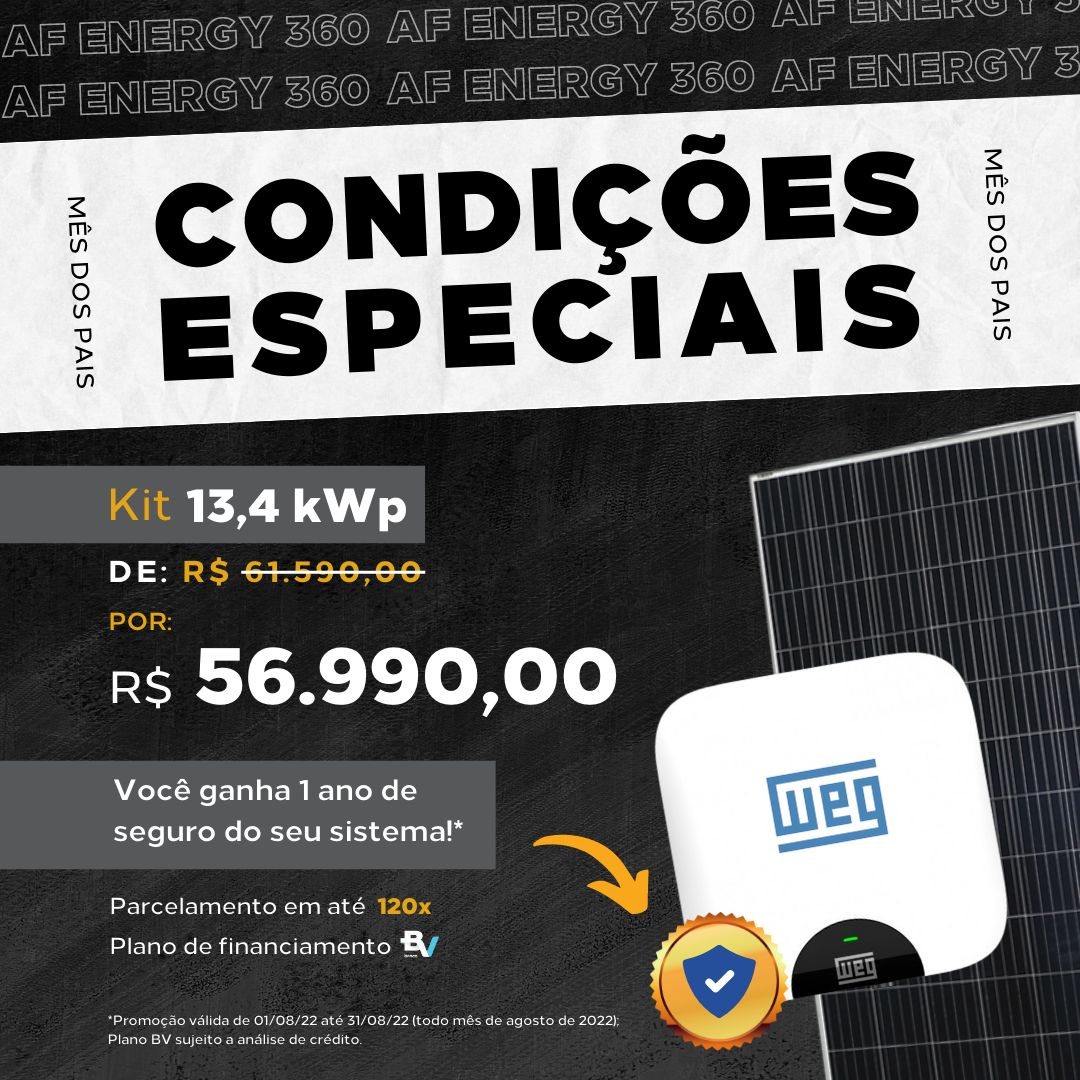
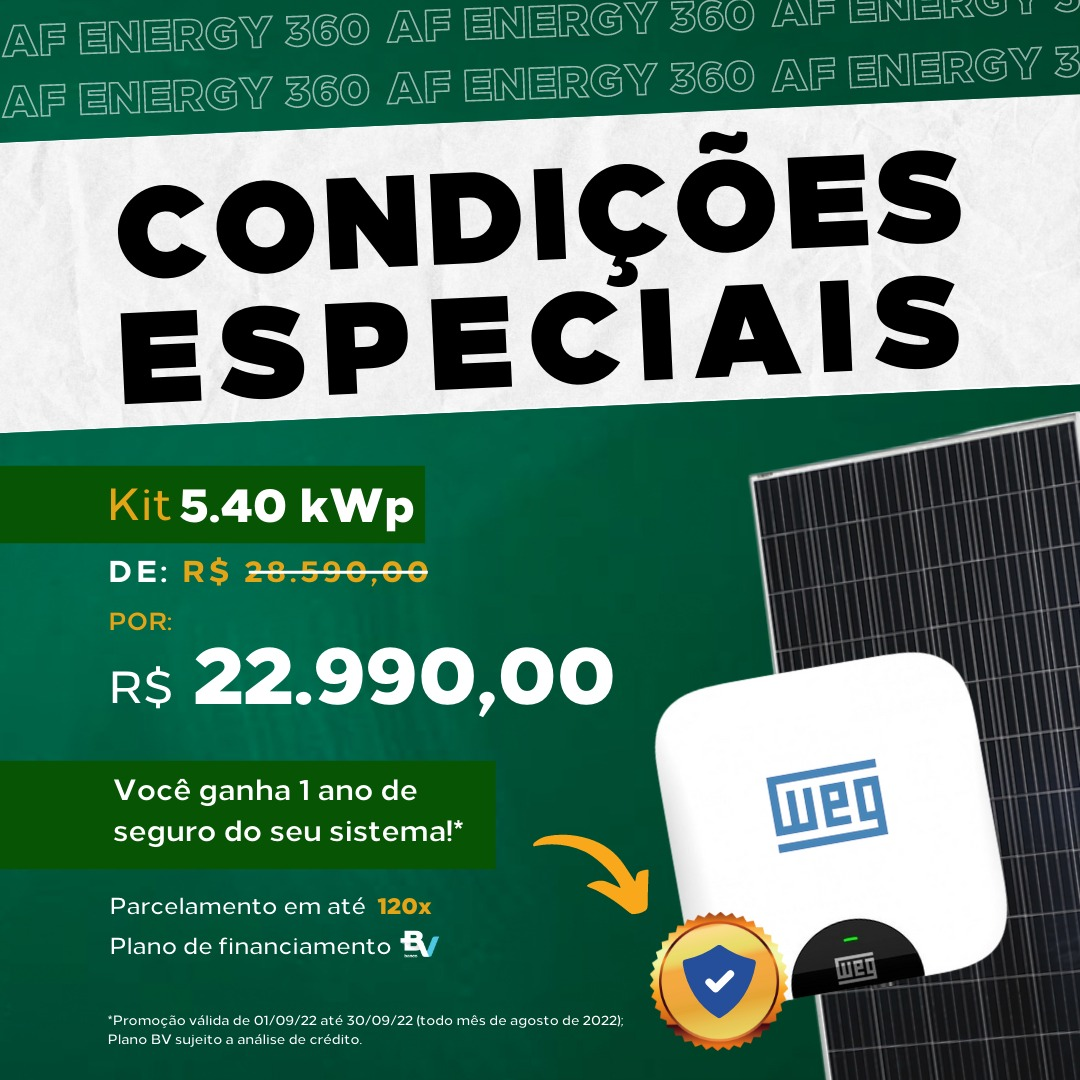
fix: ofertas atualizados

diff --git a/helpers/dados.js b/helpers/dados.js
@@ -25,10 +25,11 @@ export const vantagens = [
 ];
 
 export const ofertas = [
-  "[Mês dos pais - Condições Especiais] Kit 6,6kWp de R$ 30.690,00 por R$ 26.990,00 | Você ganha 1 ano de seguro do seus sitema! Parcelamento em até 120x",
-  "[Mês dos pais - Condições Especiais] Kit 8,9kWp de R$ 38.990,00 por R$ 35.790,00 | Você ganha 1 ano de seguro do seus sitema! Parcelamento em até 120x",
-  "[Mês dos pais - Condições Especiais] Kit 13,4kWp de R$ 61.590,00 por R$ 56.990,00 | Você ganha 1 ano de seguro do seus sitema! Parcelamento em até 120x",
-  "[Mês dos pais - Condições Especiais] Kit 2kWp de R$ 11.790,00 por R$ 9.990,00 | Você ganha 1 ano de seguro do seus sitema! Parcelamento em até 120x",
+  "[Mês dos pais - Condições Especiais] Kit 6,3kWp de R$ 31.990,00 por R$ 25.290,00 | Você ganha 1 ano de seguro do seus sitema! Parcelamento em até 120x",
+  "[Mês dos pais - Condições Especiais] Kit 8,10kWp de R$ 36.990,00 por R$ 31.890,00 | Você ganha 1 ano de seguro do seus sitema! Parcelamento em até 120x",
+  "[Mês dos pais - Condições Especiais] Kit 5,4kWp de R$ 28.590,00 por R$ 22.990,00 | Você ganha 1 ano de seguro do seus sitema! Parcelamento em até 120x",
+  "[Mês dos pais - Condições Especiais] Kit 2,04kWp de R$ 15.290,00 por R$ 11.490,00 | Você ganha 1 ano de seguro do seus sitema! Parcelamento em até 120x",
+  "[Mês dos pais - Condições Especiais] Kit 4,05kWp de R$ 23.190,00 por R$ 17.190,00 | Você ganha 1 ano de seguro do seus sitema! Parcelamento em até 120x",
 ];
 
 export const servicos = [
